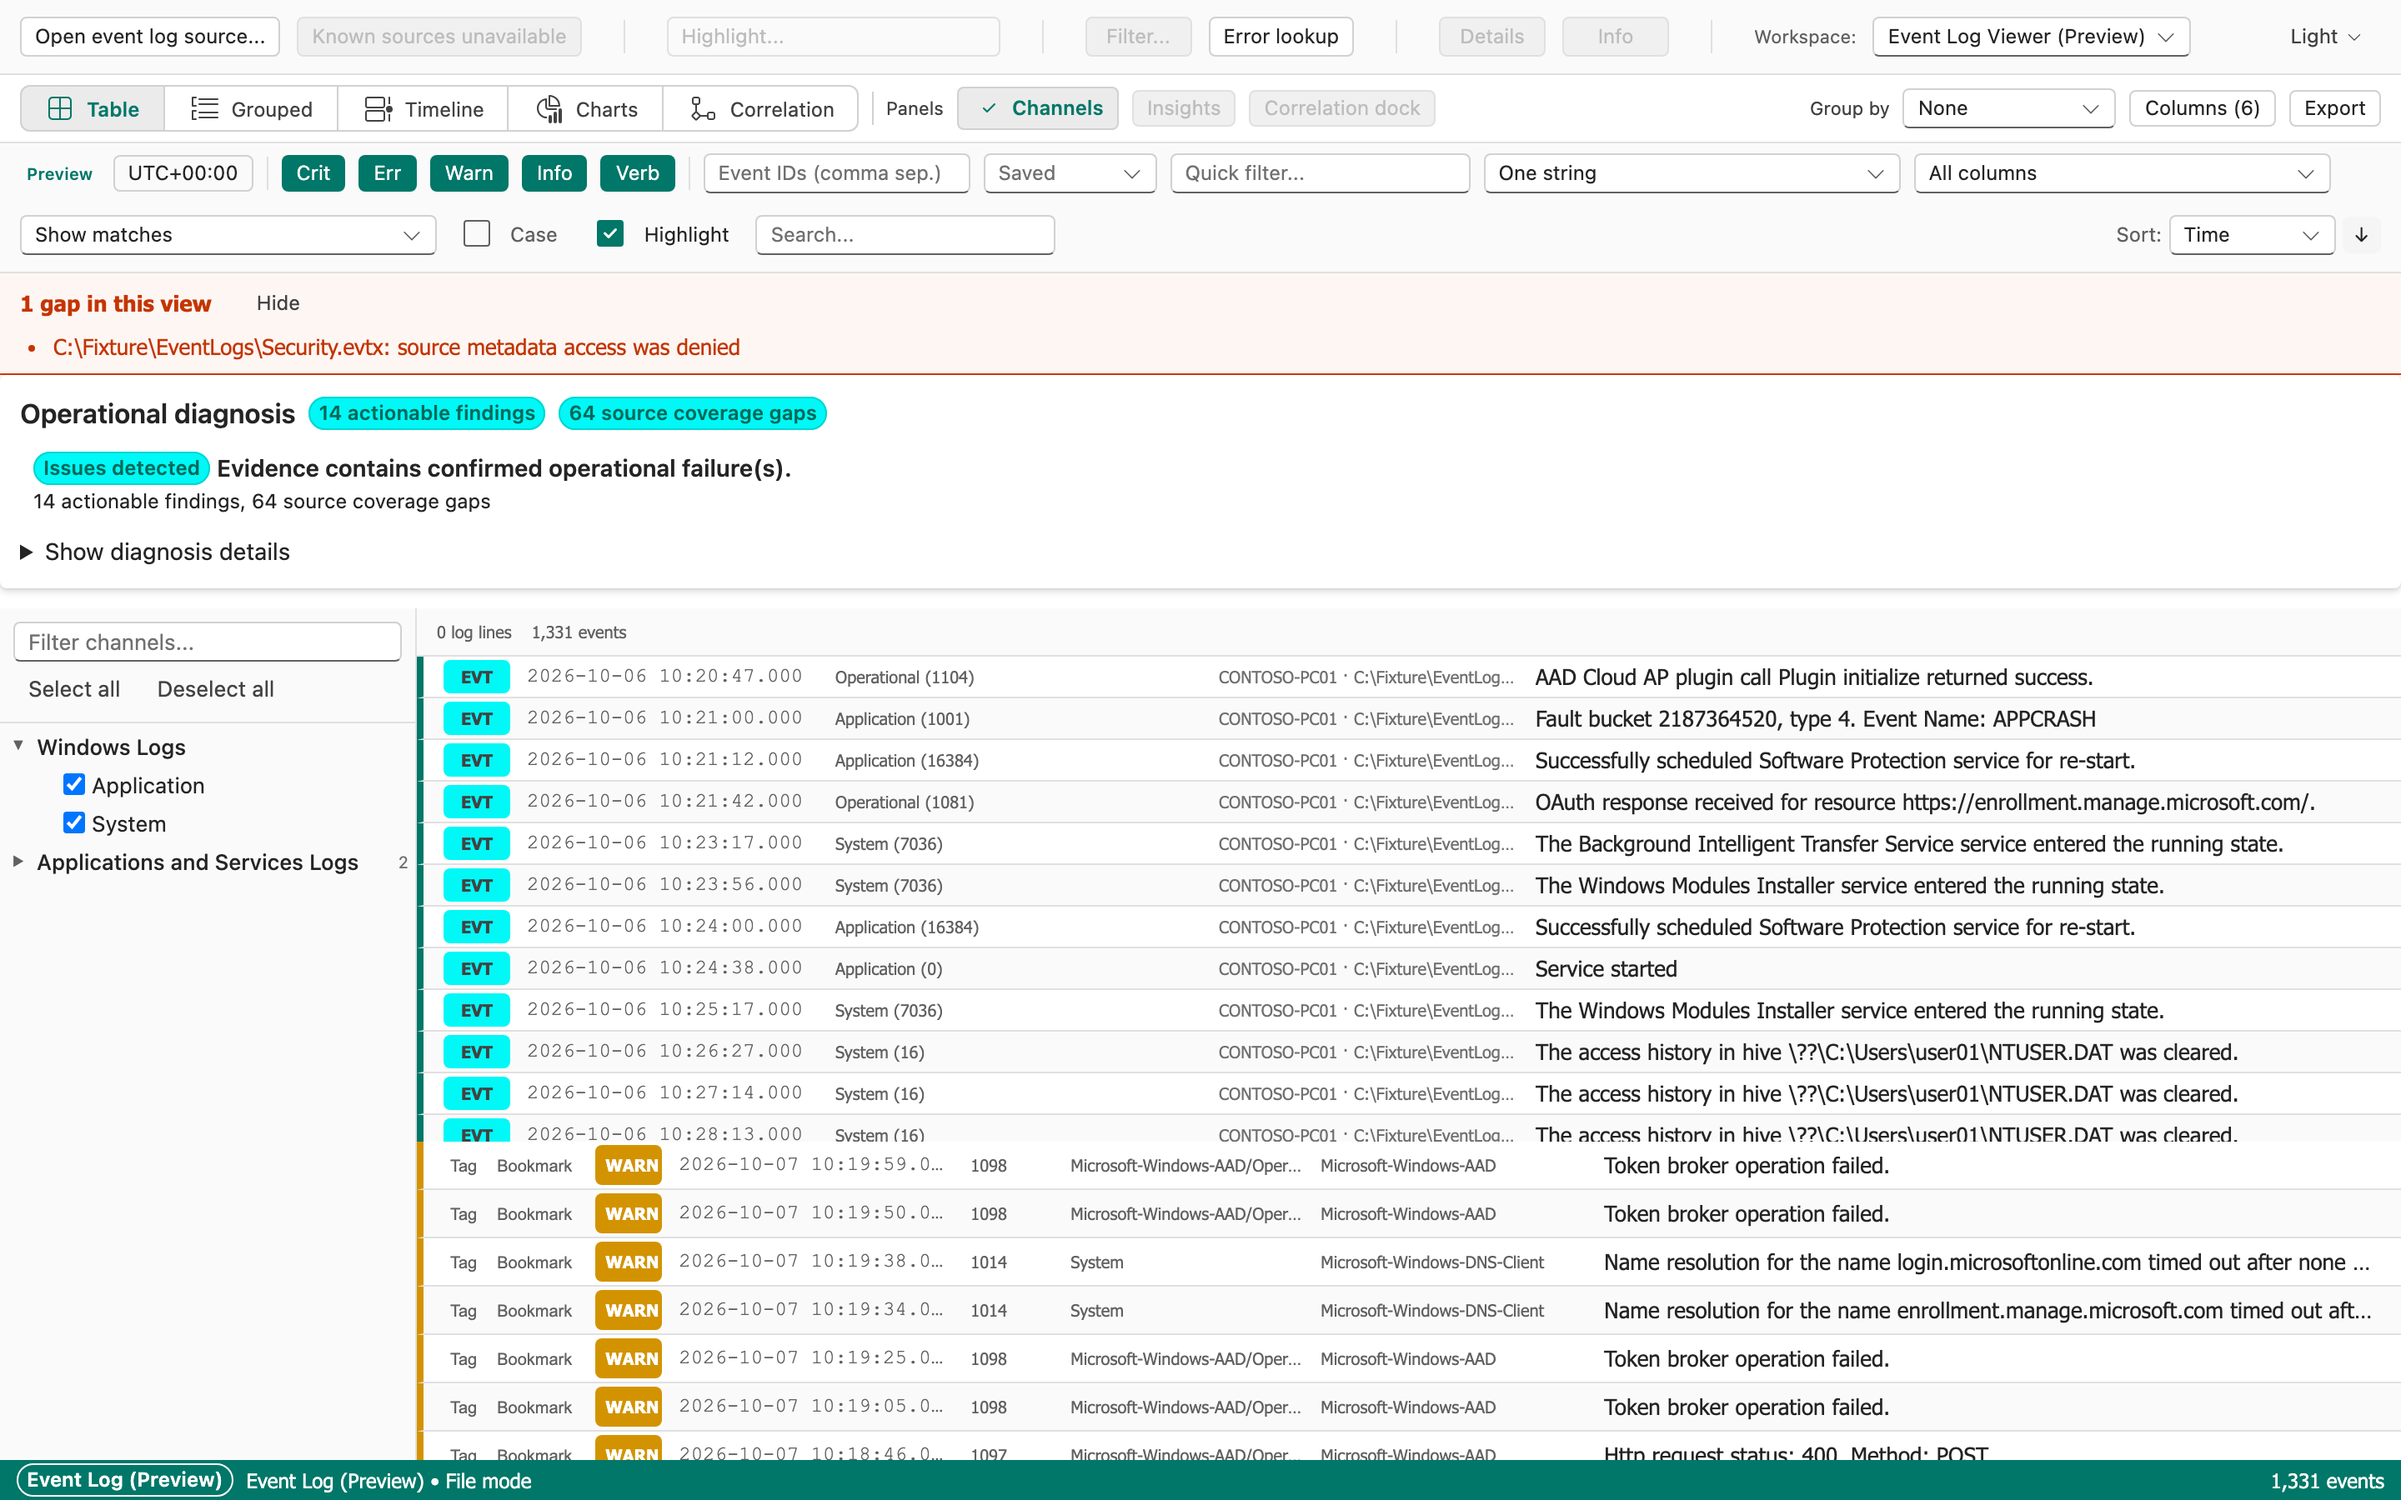
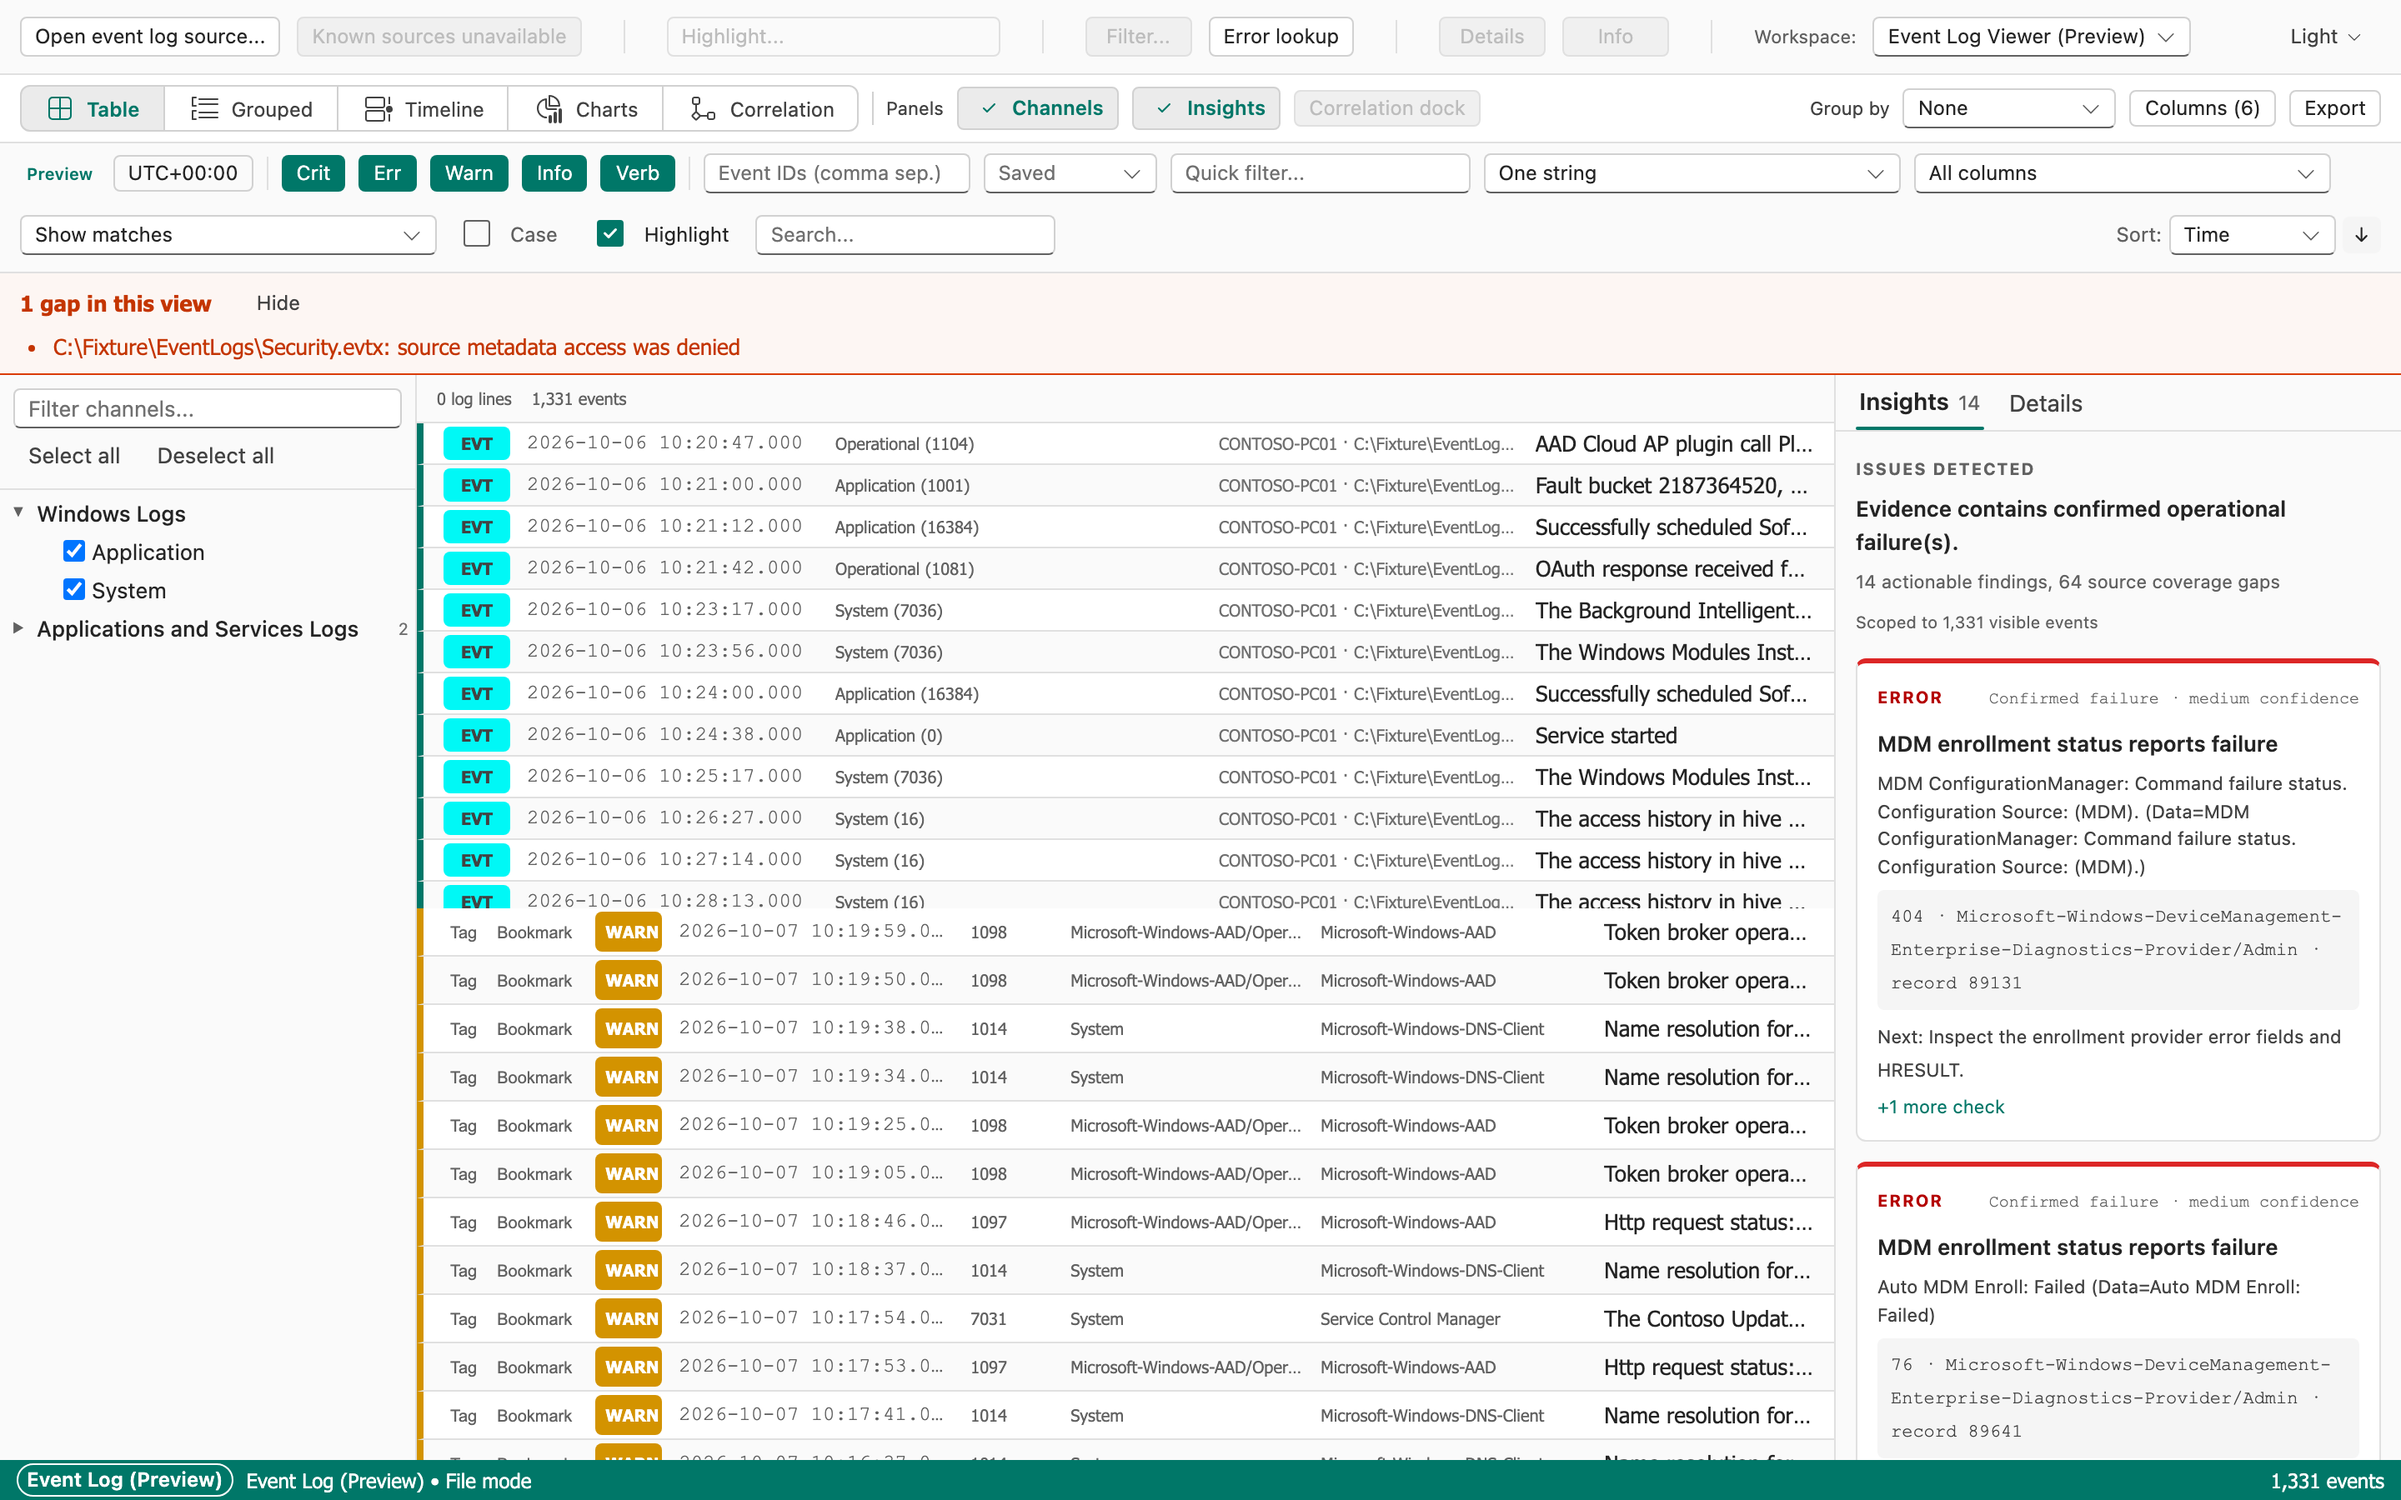
feat(event-log): recapture Event Logs screenshots and add the Insights lower cards (#830)

diff --git a/e2e/screenshots/event-logs.spec.ts b/e2e/screenshots/event-logs.spec.ts
@@ -262,4 +262,24 @@ test.describe("event-logs screenshots", () => {
       animations: "disabled",
     });
   });
+
+  test("event-logs insights lower cards", async ({ page }) => {
+    // The finding cards fill the top of the rail; scroll the panel to its end so the coverage
+    // disclosure, level mix, top event IDs and correlation summary are reviewable.
+    const panel = page.locator("#evtx-rail-panel-insights");
+    await expect(panel).toBeVisible();
+    await panel.evaluate((el) => {
+      el.scrollTop = el.scrollHeight;
+    });
+    const rail = await page.locator('[data-evtx-region="rail"]').boundingBox();
+    // The rail is 340 px wide at its default (spec 5.2).
+    expect(Math.round(rail?.width ?? 0)).toBe(340);
+    await expect(page.getByRole("region", { name: "Level mix" })).toBeVisible();
+    await assertNoHostPaths(page);
+    await page.screenshot({
+      path: outPath("event-logs-insights.png"),
+      animations: "disabled",
+    });
+  });
 });
+
